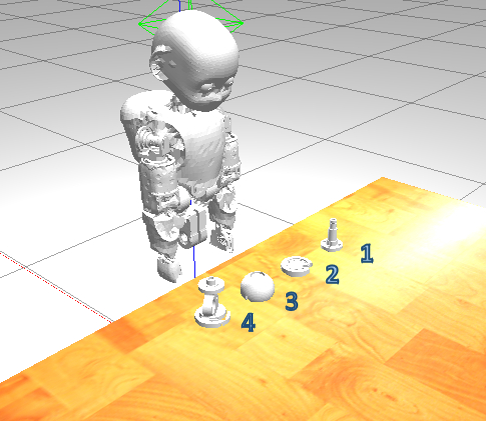
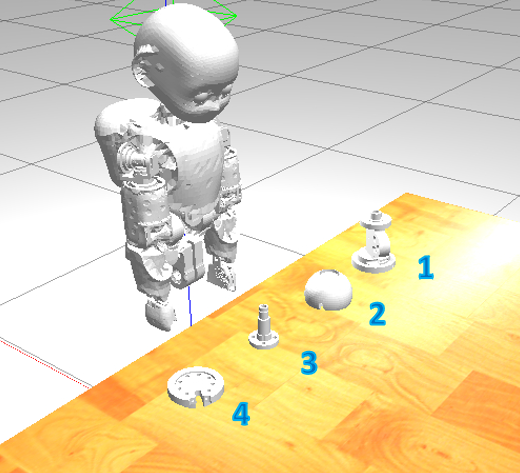
adjusted objects scale

diff --git a/src/world.cpp b/src/world.cpp
@@ -72,12 +72,14 @@ class WorldHandler : public gazebo::WorldPlugin
         auto seed = std::chrono::system_clock::now().time_since_epoch().count();
         std::shuffle(std::begin(idx), std::end(idx), std::default_random_engine(seed));
 
+        const auto Z = .7;
         std::vector<ignition::math::Pose3d> poses;
         std::vector<int> table_positions;
         for (auto& m:models) {
             auto pose = m.model->WorldPose();
             if (move_first) {
                 pose.Pos().X() += -.3;
+                pose.Pos().Z() = Z;
                 m.model->SetWorldPose(pose);
             }
             poses.push_back(pose);
@@ -94,7 +96,7 @@ class WorldHandler : public gazebo::WorldPlugin
 
             const auto p = poses[j].Pos();
             const auto q = poses[j].Rot() * ignition::math::Quaterniond(std::cos(ang), 0., 0., std::sin(ang));
-            ignition::math::Pose3d pose_i(p.X() + .3, p.Y(), p.Z(), q.W(), q.X(), q.Y(), q.Z());
+            ignition::math::Pose3d pose_i(p.X() + .3, p.Y(), Z, q.W(), q.X(), q.Y(), q.Z());
 
             auto& m = models[i];
             m.model->SetWorldPose(pose_i);
